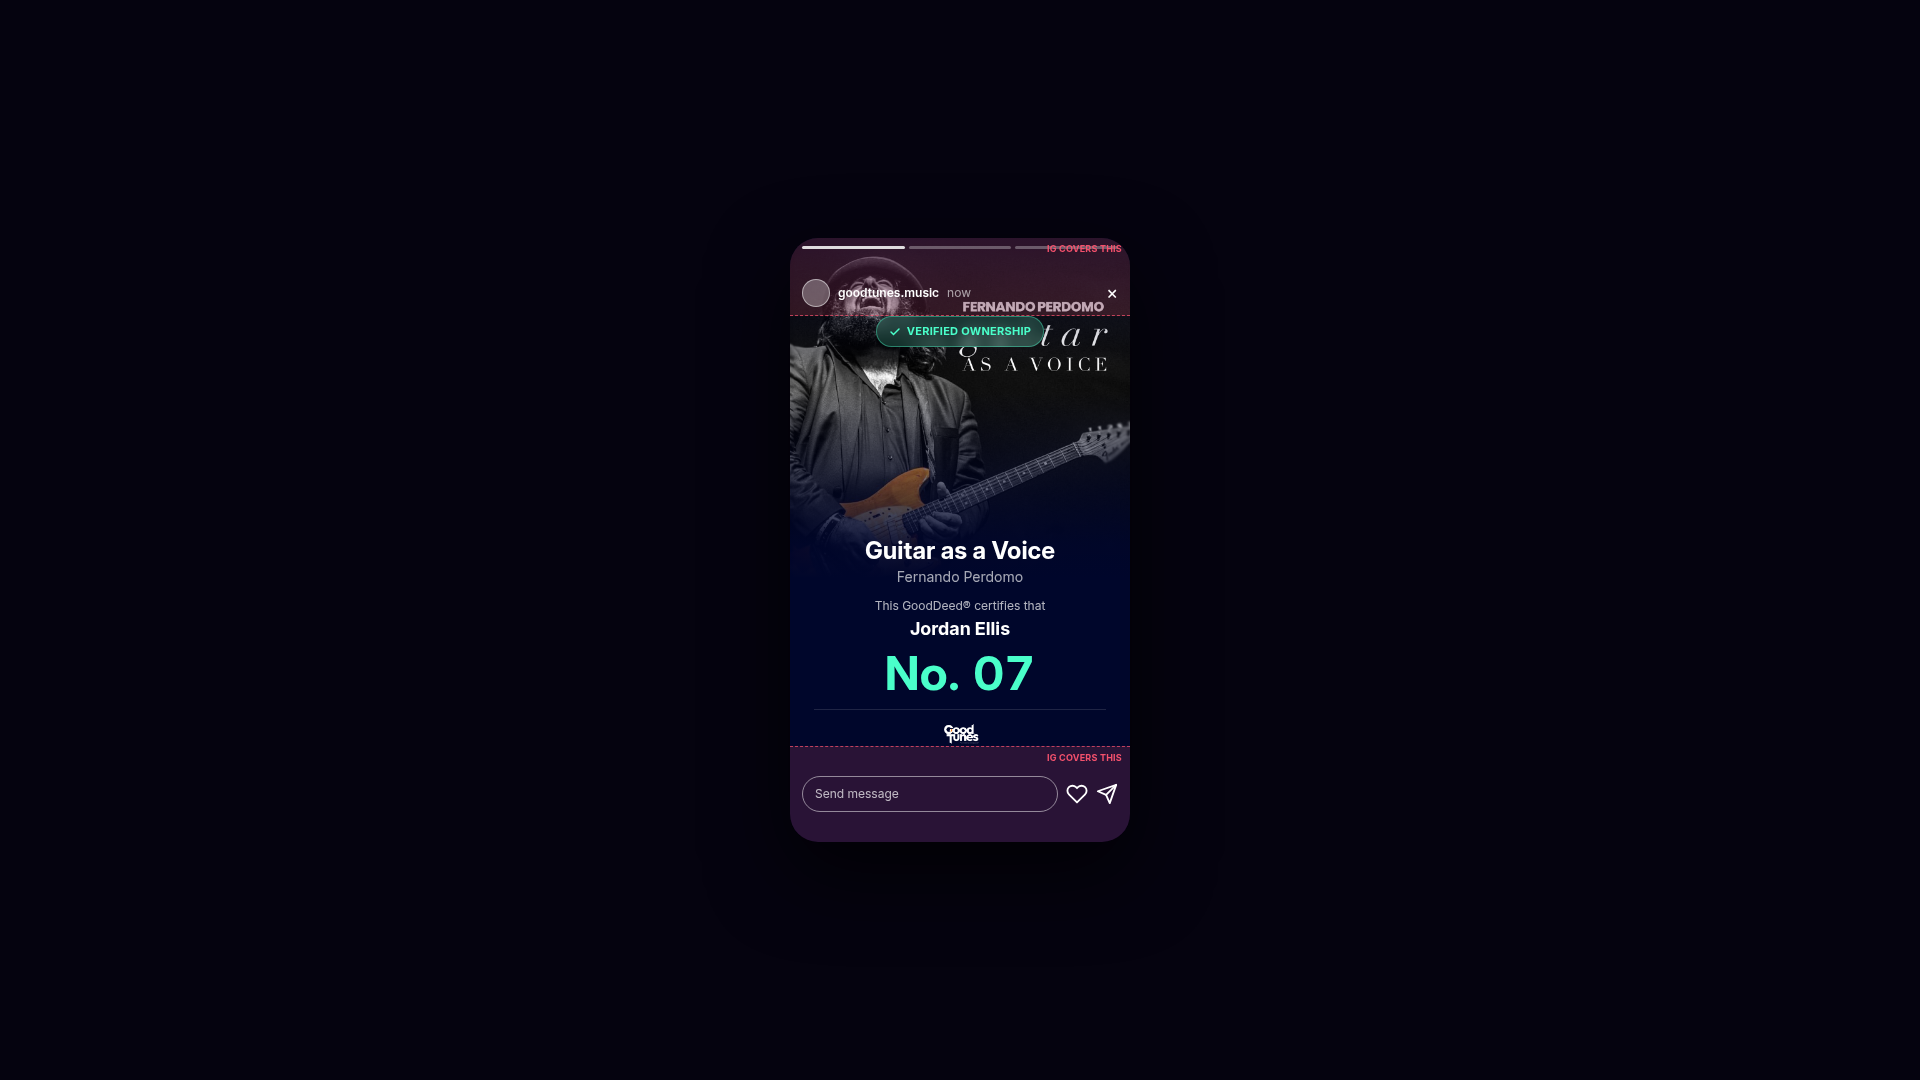
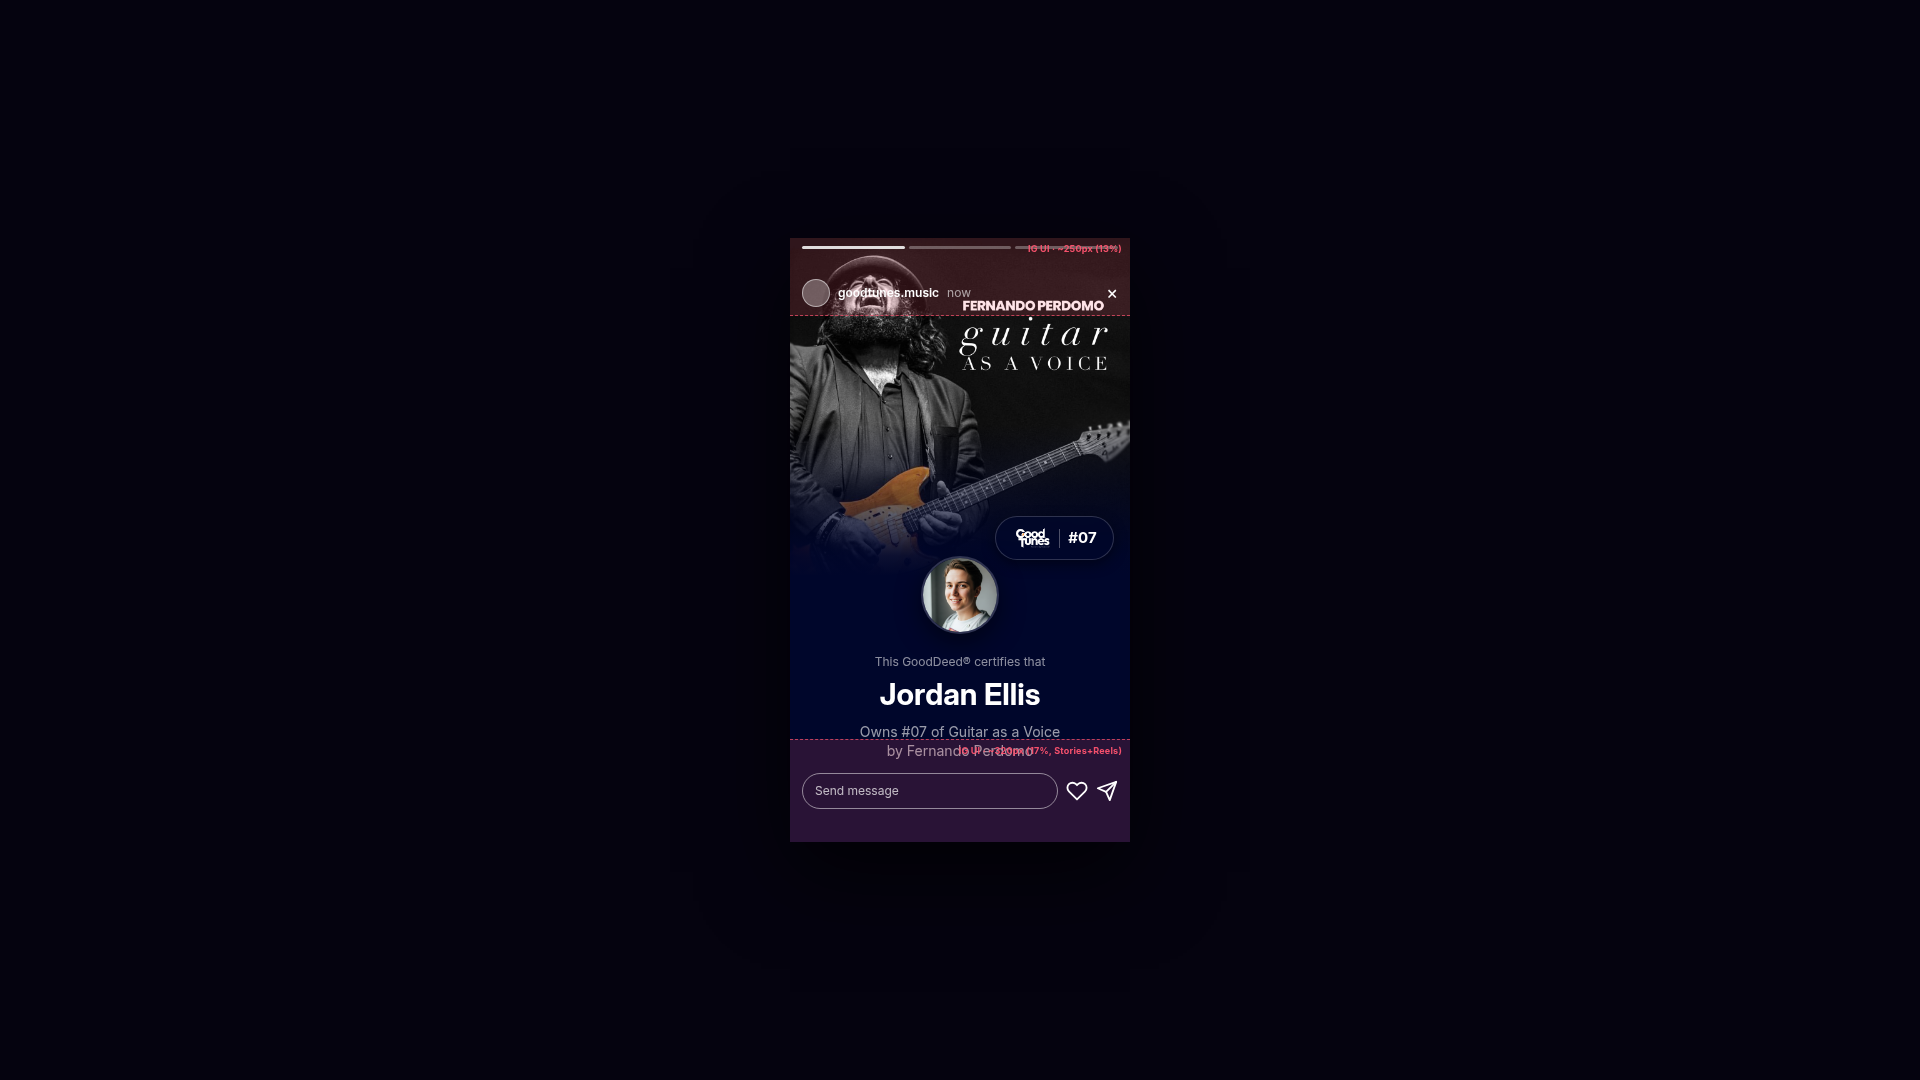
Update Instagram safe zones for future-proofing and compliance
Adjusted Instagram Stories safe zone calculations to reserve 17% at the bottom, aligning with the unified Stories+Reels specification effective March 2026, and updated UI labels for clarity.

Replit-Commit-Author: Agent
Replit-Commit-Session-Id: 05c2a2e8-5b06-4806-a9d5-d257ed0dfe21
Replit-Commit-Checkpoint-Type: full_checkpoint
Replit-Commit-Event-Id: 02152a1d-eb7d-4478-8053-af21af28f7dc
Replit-Commit-Screenshot-Url: https://storage.googleapis.com/screenshot-production-us-central1/5293185b-8e25-4d4f-b8b2-dc5494b9adc6/05c2a2e8-5b06-4806-a9d5-d257ed0dfe21/dowqR57
Replit-Helium-Checkpoint-Created: true

Changed region(s): [[0.4062, 0.3972, 0.5938, 0.7639], [0.4375, 0.2444, 0.5938, 0.3667], [0.5312, 0.2139, 0.5938, 0.2444]]

diff --git a/artifacts/mockup-sandbox/src/components/mockups/gooddeed-cert/StoriesSafeZone.tsx b/artifacts/mockup-sandbox/src/components/mockups/gooddeed-cert/StoriesSafeZone.tsx
@@ -1,8 +1,11 @@
 // SAFE-ZONE STUDY of the GoodDeed Instagram Story. Renders the exact same
 // StoryCard from Stories.tsx (single source of truth — no layout drift) with
 // Instagram's own UI mocked ON TOP, so we can see what gets covered. The shaded
-// pink bands are the ~13% top / ~16% bottom strips Instagram reserves for its
-// chrome (profile row up top, "Send message" + reactions along the bottom).
+// pink bands are the strips Meta reserves for its chrome on a 1080×1920 frame
+// (2026 spec): TOP ~250px = 13% (progress bar + profile row) and BOTTOM ~320px
+// ≈ 17% — the March-2026 UNIFIED Stories+Reels reserve (organic Stories alone is
+// only ~250px/13%, but we design to the larger Reels tray so one asset is safe
+// in both placements).
 import "./_group.css";
 import { StoryCard, TOP_SAFE, BOTTOM_SAFE } from "./Stories";
 
@@ -34,7 +37,7 @@ function IgChrome() {
           <span className="text-white text-lg leading-none">×</span>
         </div>
         <span className="absolute right-2 top-1 text-[9px] font-bold tracking-wide" style={{ color: "rgba(255,84,112,0.95)" }}>
-          IG COVERS THIS
+          IG UI · ~250px (13%)
         </span>
       </div>
 
@@ -58,7 +61,7 @@ function IgChrome() {
           <polygon points="22 2 15 22 11 13 2 9 22 2" />
         </svg>
         <span className="absolute right-2 top-1 text-[9px] font-bold tracking-wide" style={{ color: "rgba(255,84,112,0.95)" }}>
-          IG COVERS THIS
+          IG UI · ~320px (17%, Stories+Reels)
         </span>
       </div>
     </>

diff --git a/artifacts/mockup-sandbox/src/components/mockups/gooddeed-cert/Stories.tsx b/artifacts/mockup-sandbox/src/components/mockups/gooddeed-cert/Stories.tsx
@@ -31,9 +31,15 @@ const album = { title: "Guitar as a Voice", artist: "Fernando Perdomo" };
 const ownerName = "Jordan Ellis";
 const certNumStr = "07";
 
-// Instagram-reserved bands (share of the 9:16 frame height).
+// Instagram-reserved bands (share of the 9:16 / 1080×1920 frame height), per
+// Meta's current (2026) spec:
+//   • TOP  ~250px = 13%  — progress bar + profile row (this is the floor).
+//   • BOTTOM ~250px = 13% for organic Stories, but the March-2026 UNIFIED
+//     Stories+Reels safe zone reserves ~320px ≈ 17% at the bottom (Reels
+//     caption/reply tray). We reserve 17% so the same asset is safe whether a
+//     fan posts it to Stories OR reshares it as a Reel.
 export const TOP_SAFE = "13%";
-export const BOTTOM_SAFE = "16%";
+export const BOTTOM_SAFE = "17%";
 
 // Full-bleed art height as a share of the card height.
 const ART_HEIGHT = "56%";
